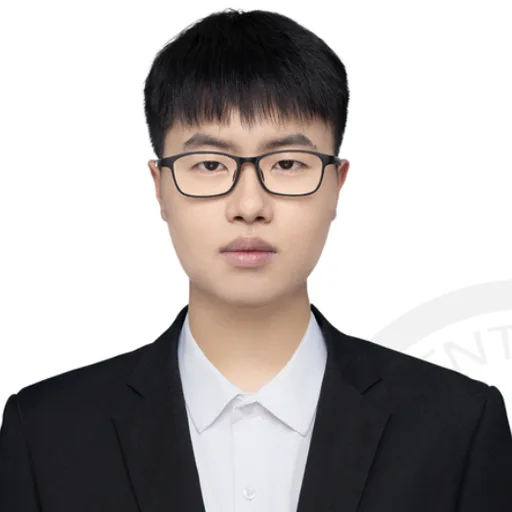
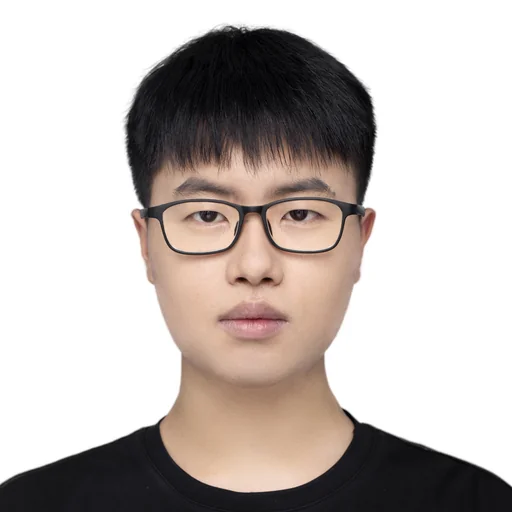
update

diff --git a/data.js b/data.js
@@ -484,10 +484,11 @@ window.collaborationData = [
                 homepage: "https://scholar.google.com.hk/citations?hl=zh-CN&user=v1NkCl0AAAAJ" 
             },
             {
-                name: "Yuxiang Yang",
-                photo: "./Collaboration/Photos/yangyuxiang.webp",
+                name: "** Yang",
+                // name: "Yuxiang Yang",
+                // photo: "./Collaboration/Photos/yangyuxiang.webp",
                 role: "Ph.D. Student<br>The Hong Kong Polytechnic University", 
-                homepage: "https://scholar.google.com.hk/citations?hl=zh-CN&user=uyiHu0kAAAAJ" 
+                // homepage: "https://scholar.google.com.hk/citations?hl=zh-CN&user=uyiHu0kAAAAJ" 
             },
             {
                 name: "Yu Liu",
